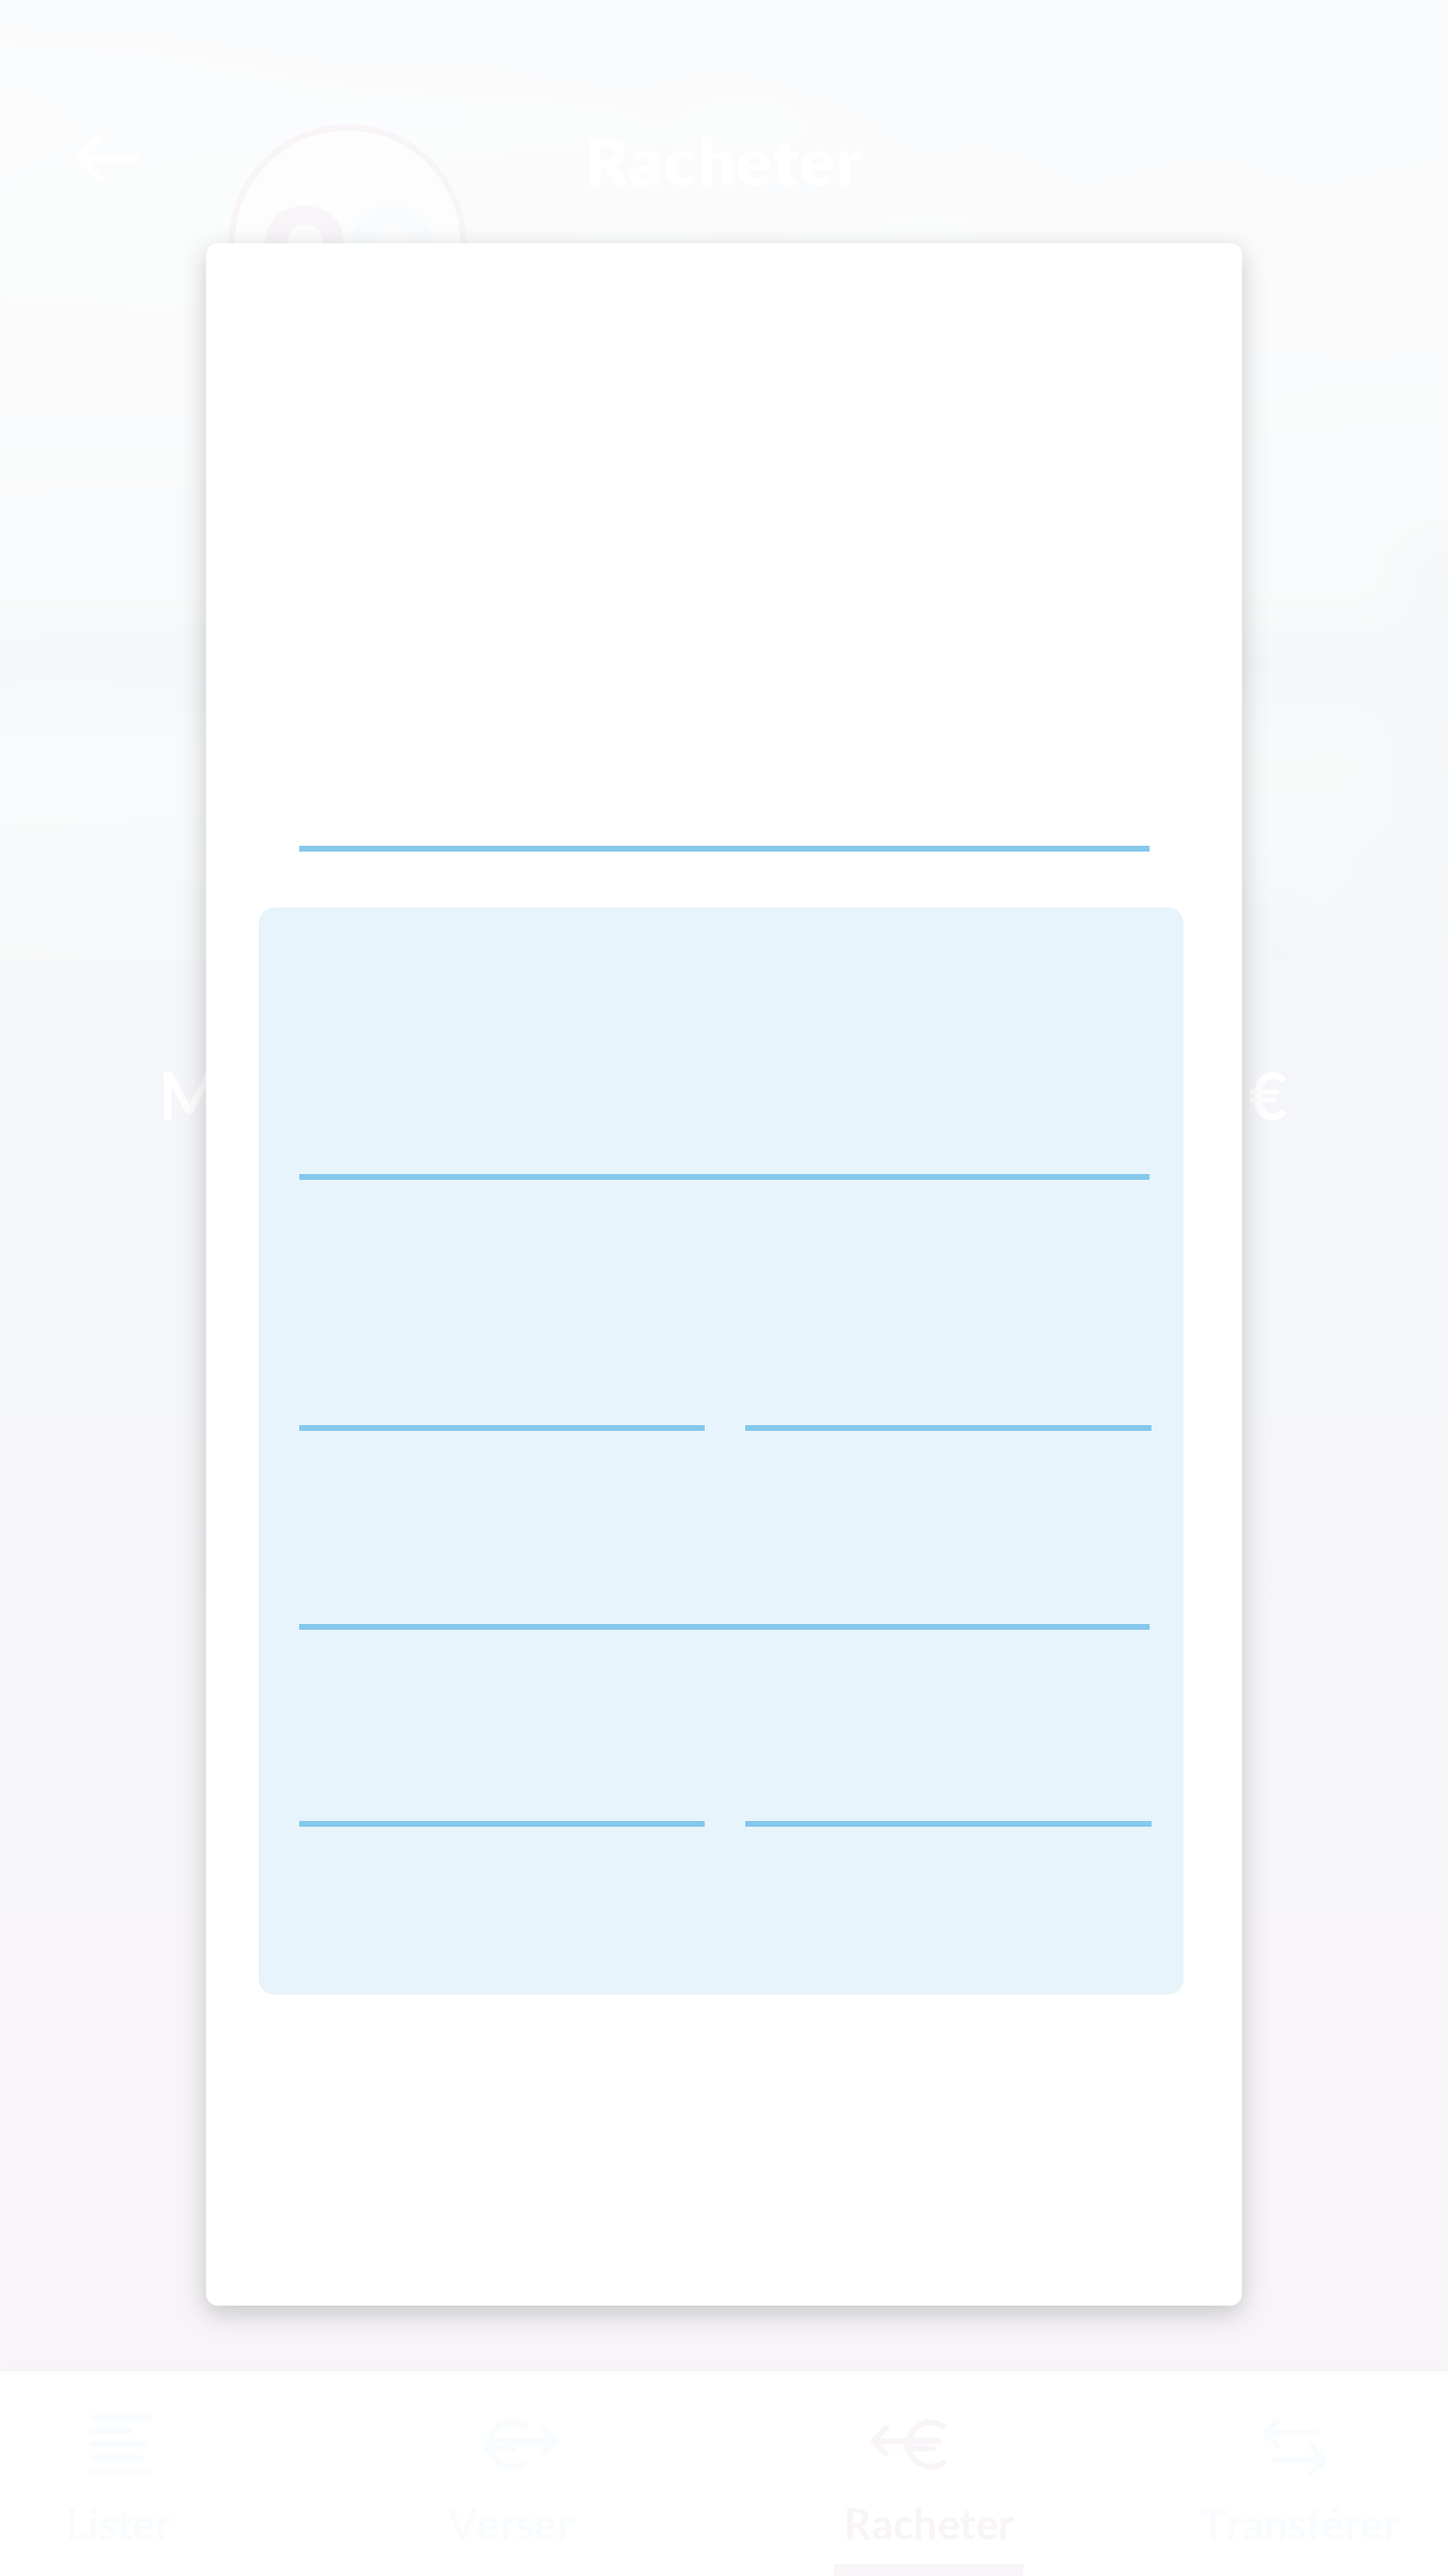
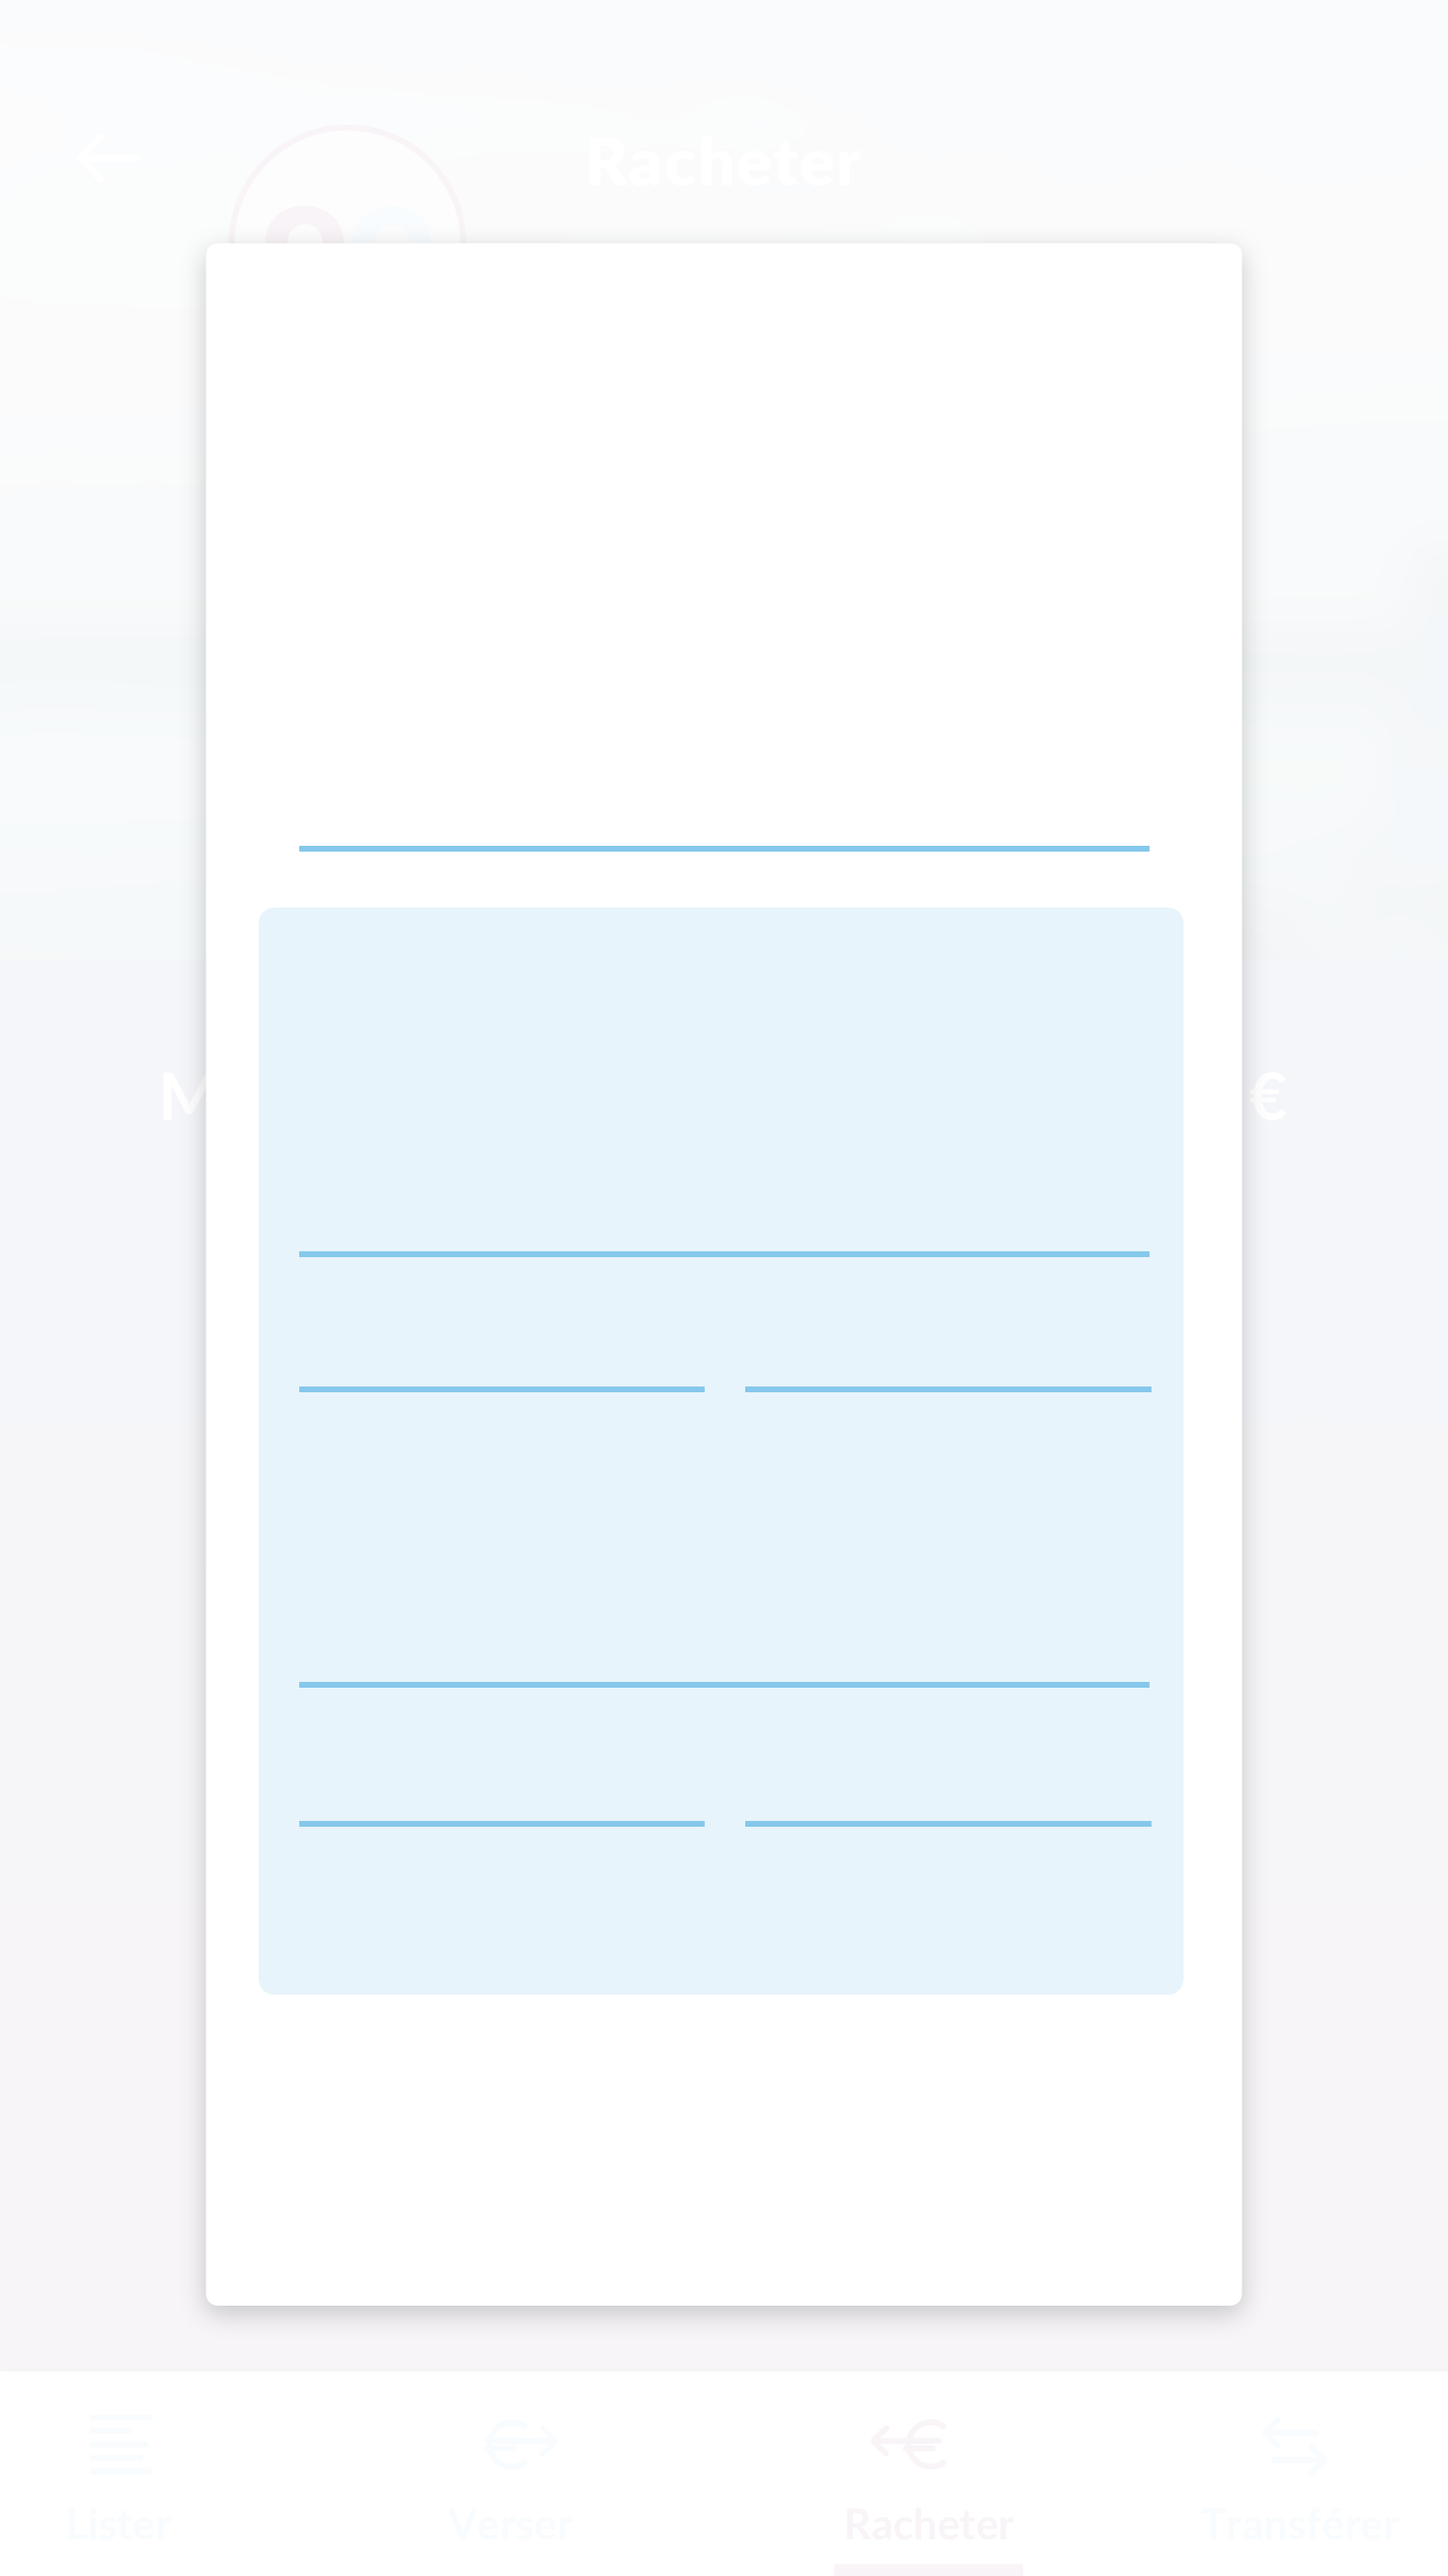
some change

Changed region(s): [[0.5213, 0.5289, 0.7973, 0.56], [0.2147, 0.5289, 0.4907, 0.56]]

diff --git a/src/app/rachat-graphe2/rachat-graphe2.component.html b/src/app/rachat-graphe2/rachat-graphe2.component.html
@@ -29,14 +29,19 @@
   <div class="replaceDiv5">Rente viagère</div>
   <input type="text" [(ngModel)]="renteViagere" class="replaceInput_2">
   <div *ngIf=" isMontantValid() && !isRenteViagereValid()" class="alert alert-danger replaceError2" >Rente viagère incoherente</div>
-  <input type="text" value="75  %" class="replaceInput2">
-  <input type="text" value="280  €/mois" class="replaceInput3">
+ <!-- <input type="text" value="75  %" class="replaceInput2">-->
+  <div class="replaceInput2" *ngIf="isRenteViagereValid()">{{pourcentageViagere}} %</div>
+  <!--<input type="text" value="280  €/mois" class="replaceInput3">-->
+  <div class="replaceInput3" *ngIf="isRenteViagereGiven()">280  €/mois</div>
   <div class="replaceDiv6">Rente financière</div>
   <input type="text" [(ngModel)]="renteFinanciere" class="replaceInput_3">
   <div *ngIf="isMontantValid() && !isRenteFinanciereValid()" class="alert alert-danger replaceError3" >Rente financière incoherente</div>
-  <input type="text" value="25  %" class="replaceInput4">
-  <input type="text" value="1000  €/mois" class="replaceInput5">
-  <input type="text" value="sur 160 mois" class="replaceInput6">
+  <!--<input type="text" value="25  %" class="replaceInput4">-->
+  <div class="replaceInput4" *ngIf="isRenteFinanciereValid()">{{pourcentageFinancier}} %</div>
+<!--  <input type="text" value="1000  €/mois" class="replaceInput5">-->
+  <div class="replaceInput5" *ngIf="isRenteFinanciereGiven()">1000  €/mois</div>
+<!--  <input type="text" value="sur 160 mois" class="replaceInput6">-->
+  <div class="replaceInput6" *ngIf="isRenteFinanciereGiven()">sur 160 mois</div>
   <button class="btn btn-info btn-lg btn-block buttonGo" (click)="goToRachatGraphe3()">C'est bien ça!</button>
   <!--<div class="replaceRachat">
     <a href="" data-toggle="collapse" style="color: #7f3776"><b>Racheter</b></a>

diff --git a/src/app/rachat3/rachat3.component.html b/src/app/rachat3/rachat3.component.html
@@ -59,7 +59,7 @@
     <a href="" data-toggle="collapse" style="color: #85c8ec" (click)="goToDispositif()"><b>Importer</b></a>
   </div>
 
-  <div ngDraggable class="modal fade" id="Modal" tabindex="-1" role="dialog" aria-labelledby="ModalLabel" aria-hidden="true">
+  <div ngDraggable class="modal fade dialogWidth" id="Modal" tabindex="-1" role="dialog" aria-labelledby="ModalLabel" aria-hidden="true">
     <div class="modal-dialog" class="modal-dialog modal-dialog-centered"  role="document">
       <div class="modal-content">
         <div class="modal-header" style="background-color: #7a3978;cursor:move;" >
@@ -71,7 +71,7 @@
         <div class="modal-body">
           <div class="card-body">
             <h4 style="color: #85c8ec">Opération éffectuée avec succès</h4>
-            <button class="btn btn-info" data-dismiss="modal"
+            <button class="btn btn-info btn-lg btn-block buttonLancementA" data-dismiss="modal"
                       (click)="returnToMenu()">
                Parfait
               </button>

diff --git a/src/app/rachat-graphe2/rachat-graphe2.component.css b/src/app/rachat-graphe2/rachat-graphe2.component.css
@@ -138,7 +138,7 @@ mat-grid-tile {
   text-align: center;
   font-size: 16pt;
   position: absolute;
-  top: 360px;
+  top: 385px;
   left: 620px;
   color: #7f3776;
   width: 200px;
@@ -150,7 +150,7 @@ mat-grid-tile {
   text-align: center;
   font-size: 16pt;
   position: absolute;
-  top: 505px;
+  top: 520px;
   left: 620px;
   color: #7f3776;
   width: 200px;
@@ -163,7 +163,7 @@ mat-grid-tile {
   font-size: 16pt;
   text-align: center;
   position: absolute;
-  top: 443px;
+  top: 430px;
   left: 610px;
   color: #7f3776;
   width: 100px;
@@ -176,7 +176,7 @@ mat-grid-tile {
   font-size: 16pt;
   text-align: center;
   position: absolute;
-  top: 443px;
+  top: 430px;
   left: 730px;
   color: #7f3776;
   width: 150px;

diff --git a/src/app/rachat-graphe2/rachat-graphe2.component.ts b/src/app/rachat-graphe2/rachat-graphe2.component.ts
@@ -52,9 +52,22 @@ export class RachatGraphe2Component implements OnInit {
     return true;
   }
   isRenteFinanciereValid(){
+    this.calculPourcentage();
     if((Number(this.capitalValue) - Number(this.montant)) - (Number(this.renteViagere)+ Number(this.renteFinanciere)) < 0){
       return false;
     }
     return true;
+  }
+  isRenteViagereGiven(){
+    if(this.renteViagere !== '0.0'){
+      return true;
+    }
+    return false;
+  }
+  isRenteFinanciereGiven(){
+    if(this.renteFinanciere !== '0.0'){
+      return true;
+    }
+    return false;
   }
 }

diff --git a/src/app/rachat3/rachat3.component.css b/src/app/rachat3/rachat3.component.css
@@ -22,8 +22,7 @@ mat-grid-tile {
   background-color: #85c8ec;
   border-radius: 4pt;
   width: 172.5pt;
-  margin-top: 400pt;
-  margin-left: 65pt;
+  margin-left: 50pt;
   height: 45pt;
 }
 .buttonGo {
@@ -222,6 +221,11 @@ mat-grid-tile {
   height: 8px;
   border-radius: 50%;
   background: white;
+}
+.dialogWidth{
+  position: absolute;
+  left: 505px;
+  width: 440px;
 }
 
 
